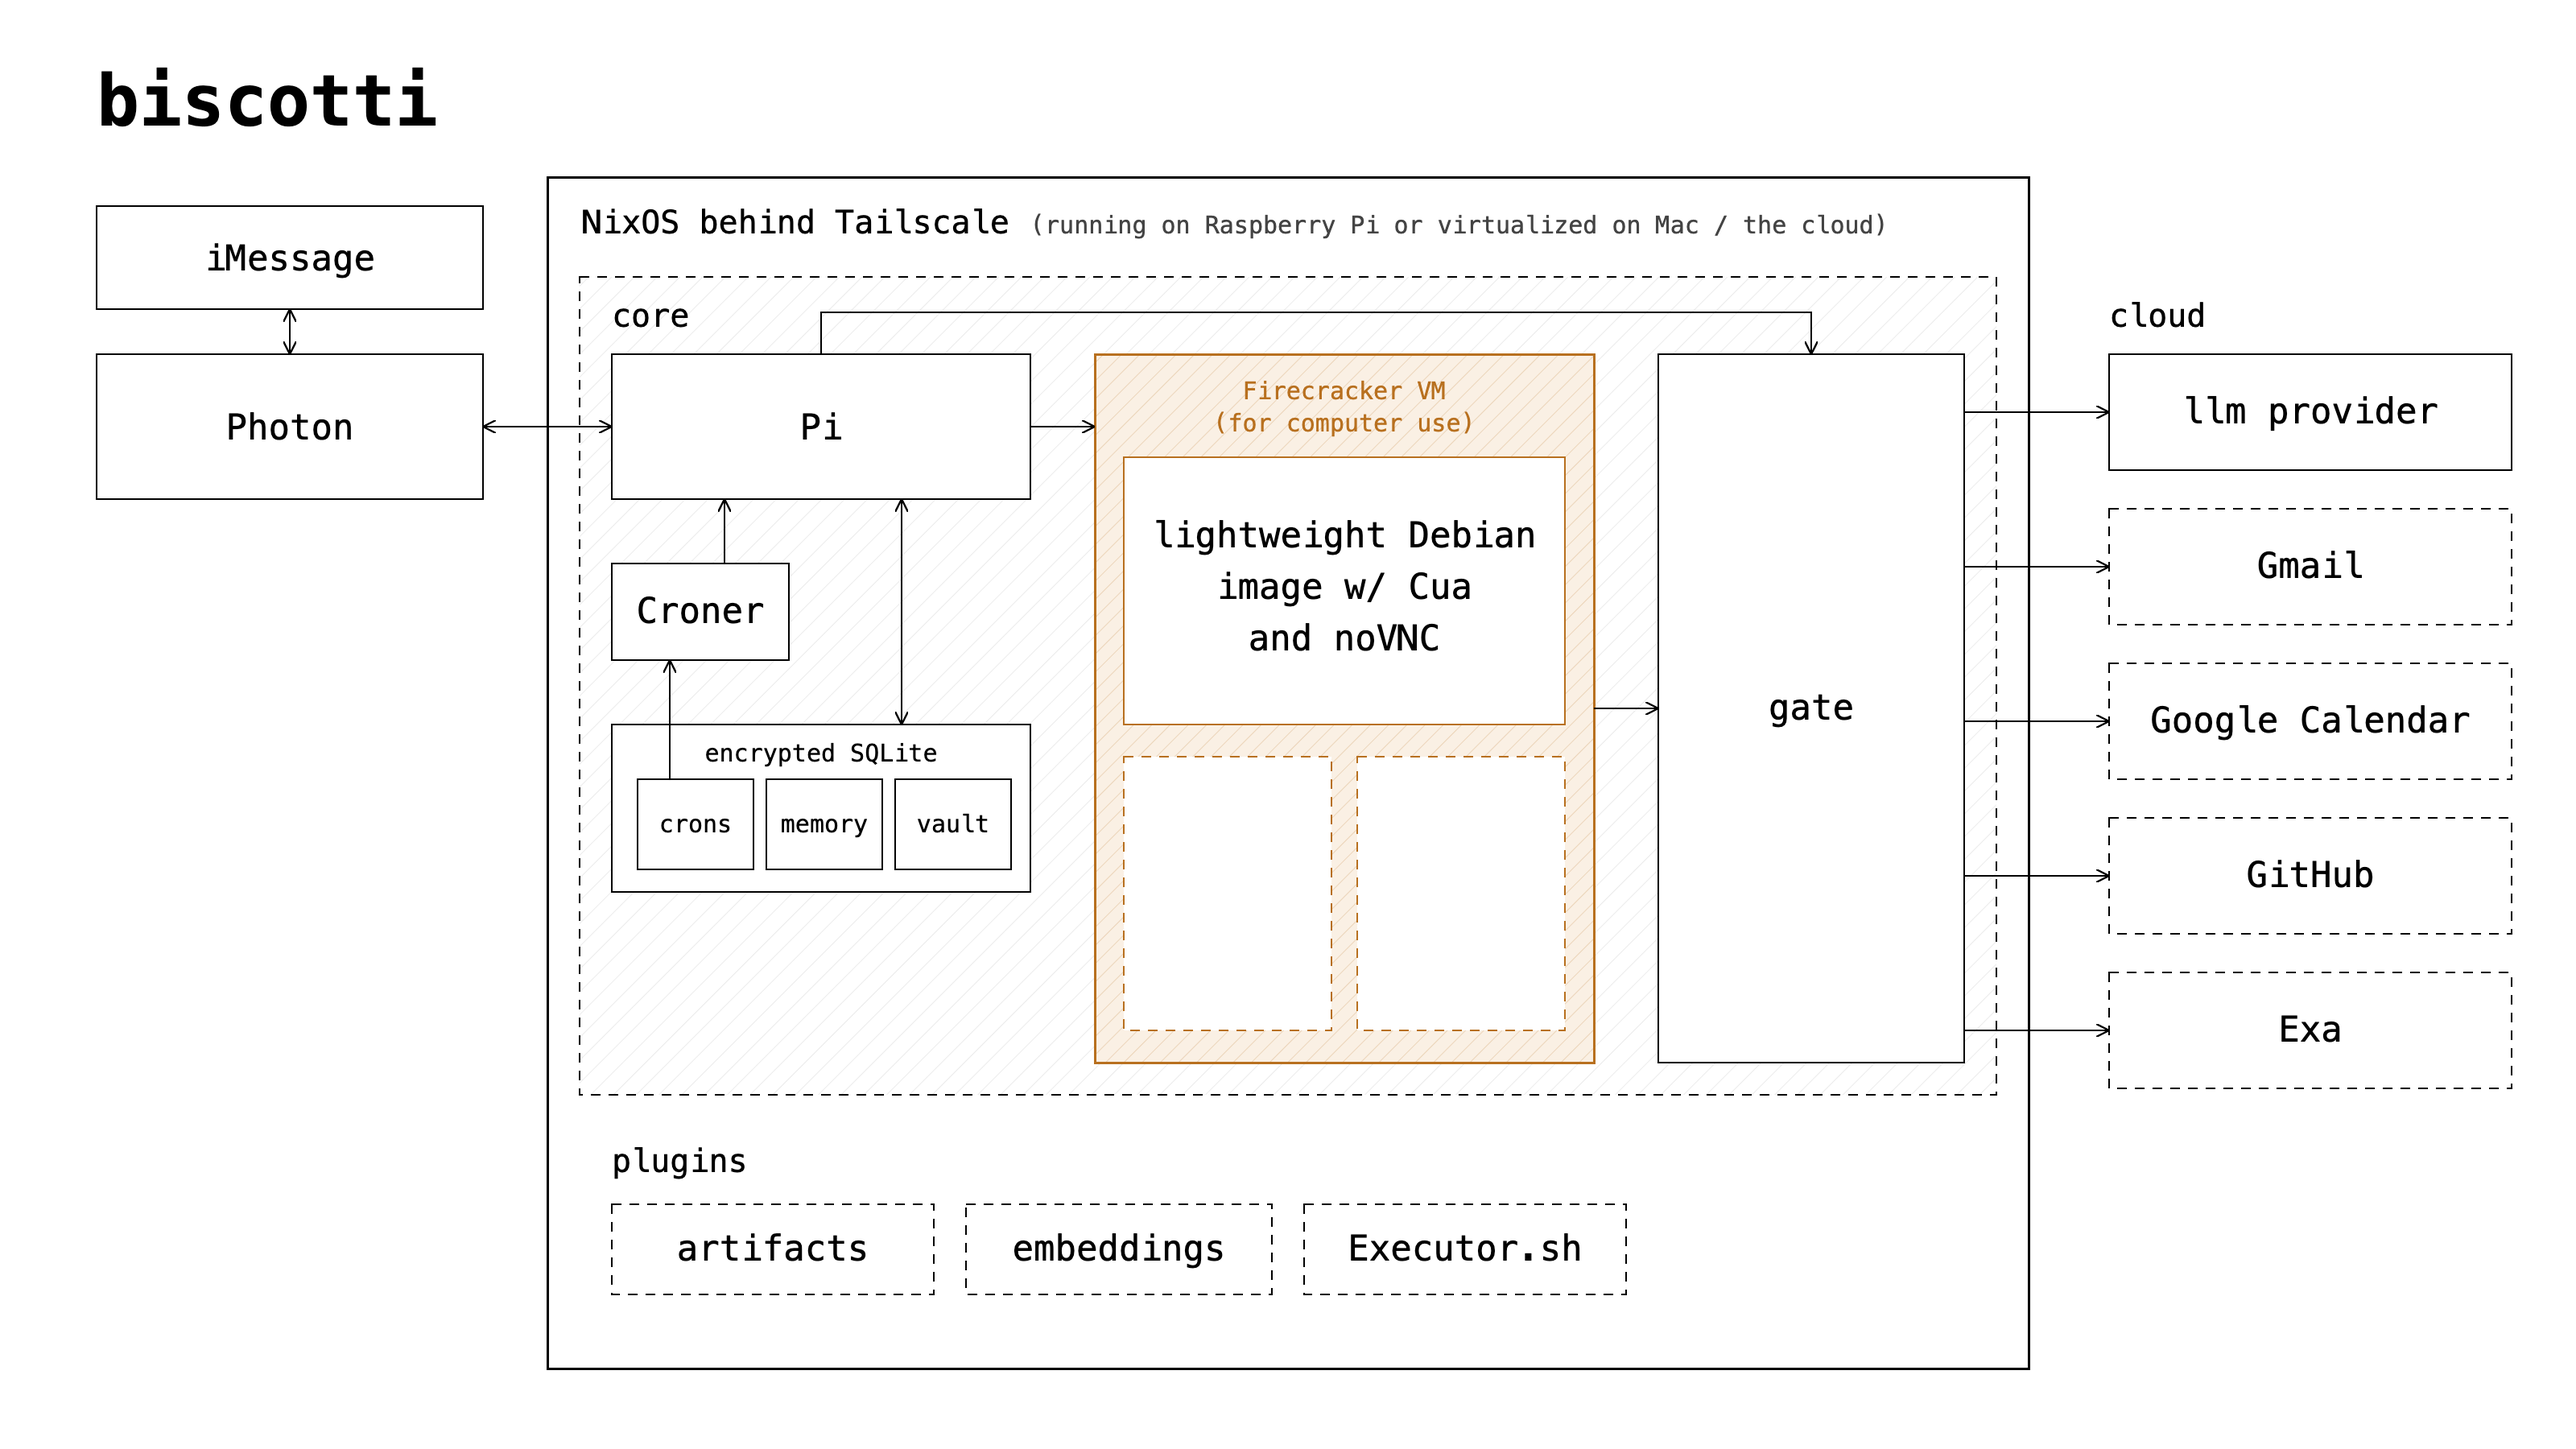
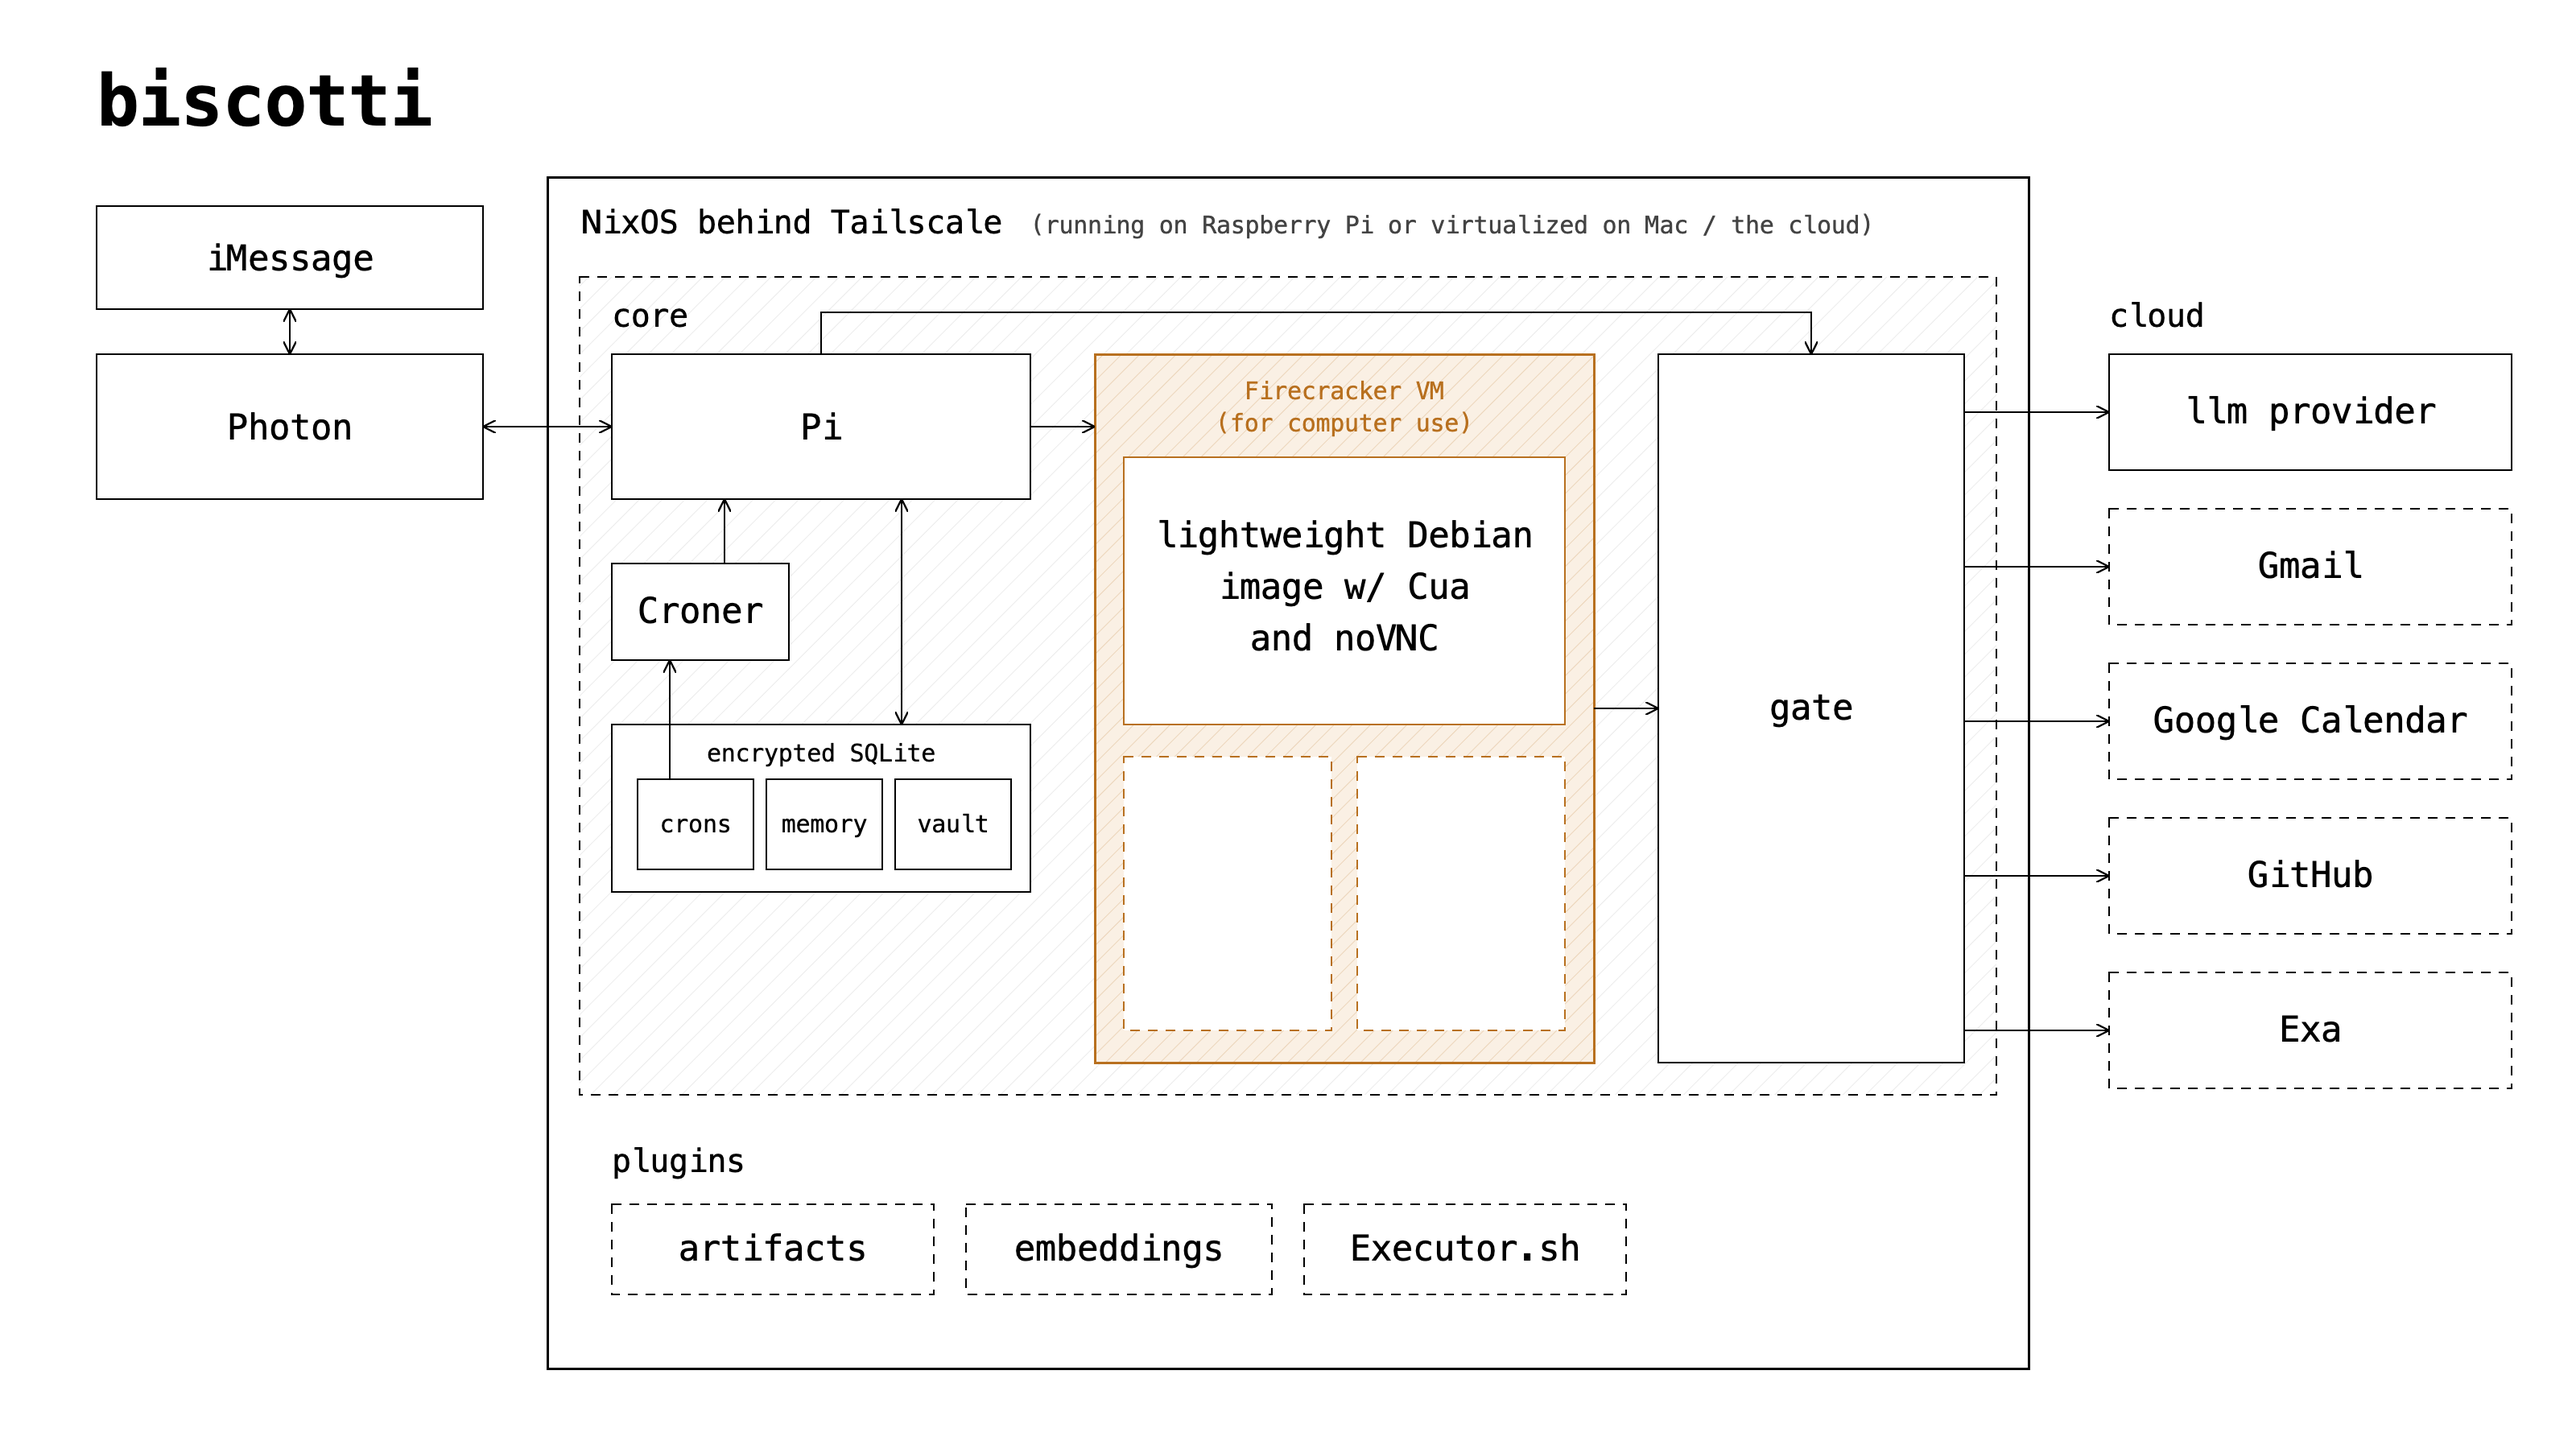
site: diagram inline so it uses the site's monospace

diff --git a/installers/site/src/App.svelte b/installers/site/src/App.svelte
@@ -1,5 +1,6 @@
 <script>
-  import architecture from "../../../docs/architecture.svg?url";
+  // Inlined, not an <img>: inside an image the system monospace (ui-monospace) doesn't resolve.
+  import architecture from "../../../docs/architecture.svg?raw";
   const version = __VERSION__;
   const biscotti = String.raw`
         _.-~~~~~~~~~~~~~~~~~~~~-._
@@ -27,13 +28,7 @@
 
   <details open>
     <summary>Design</summary>
-    <img
-      class="demo arch"
-      src={architecture}
-      width="1600"
-      height="900"
-      alt="biscotti's architecture: iMessage through Photon to Pi on NixOS behind Tailscale. The core holds Pi, Croner, an encrypted SQLite store (crons, memory, vault), Firecracker VMs for computer use (Debian with Cua and noVNC) and the gate, through which every call to the llm provider, Gmail, Google Calendar, GitHub and Exa goes. Plugins: artifacts, embeddings, Executor.sh."
-    />
+    <div class="arch" role="img" aria-label="biscotti's architecture: iMessage through Photon to Pi on NixOS behind Tailscale. The core holds Pi, Croner, an encrypted SQLite store (crons, memory, vault), Firecracker VMs for computer use (Debian with Cua and noVNC) and the gate, through which every call to the llm provider, Gmail, Google Calendar, GitHub and Exa goes. Plugins: artifacts, embeddings, Executor.sh.">{@html architecture}</div>
   </details>
 
   <details open>

diff --git a/installers/site/src/app.css b/installers/site/src/app.css
@@ -27,4 +27,4 @@ details:last-of-type { border-bottom: 1px solid #000; }
 summary { cursor: pointer; font-weight: 600; }
 details > :not(summary) { margin: 12px 0 0; }
 .demo { display: block; width: 100%; max-width: 520px; height: auto; border: 1px solid #000; }
-.demo.arch { max-width: 100%; border: 0; }
+.arch svg { display: block; width: 100%; height: auto; }
